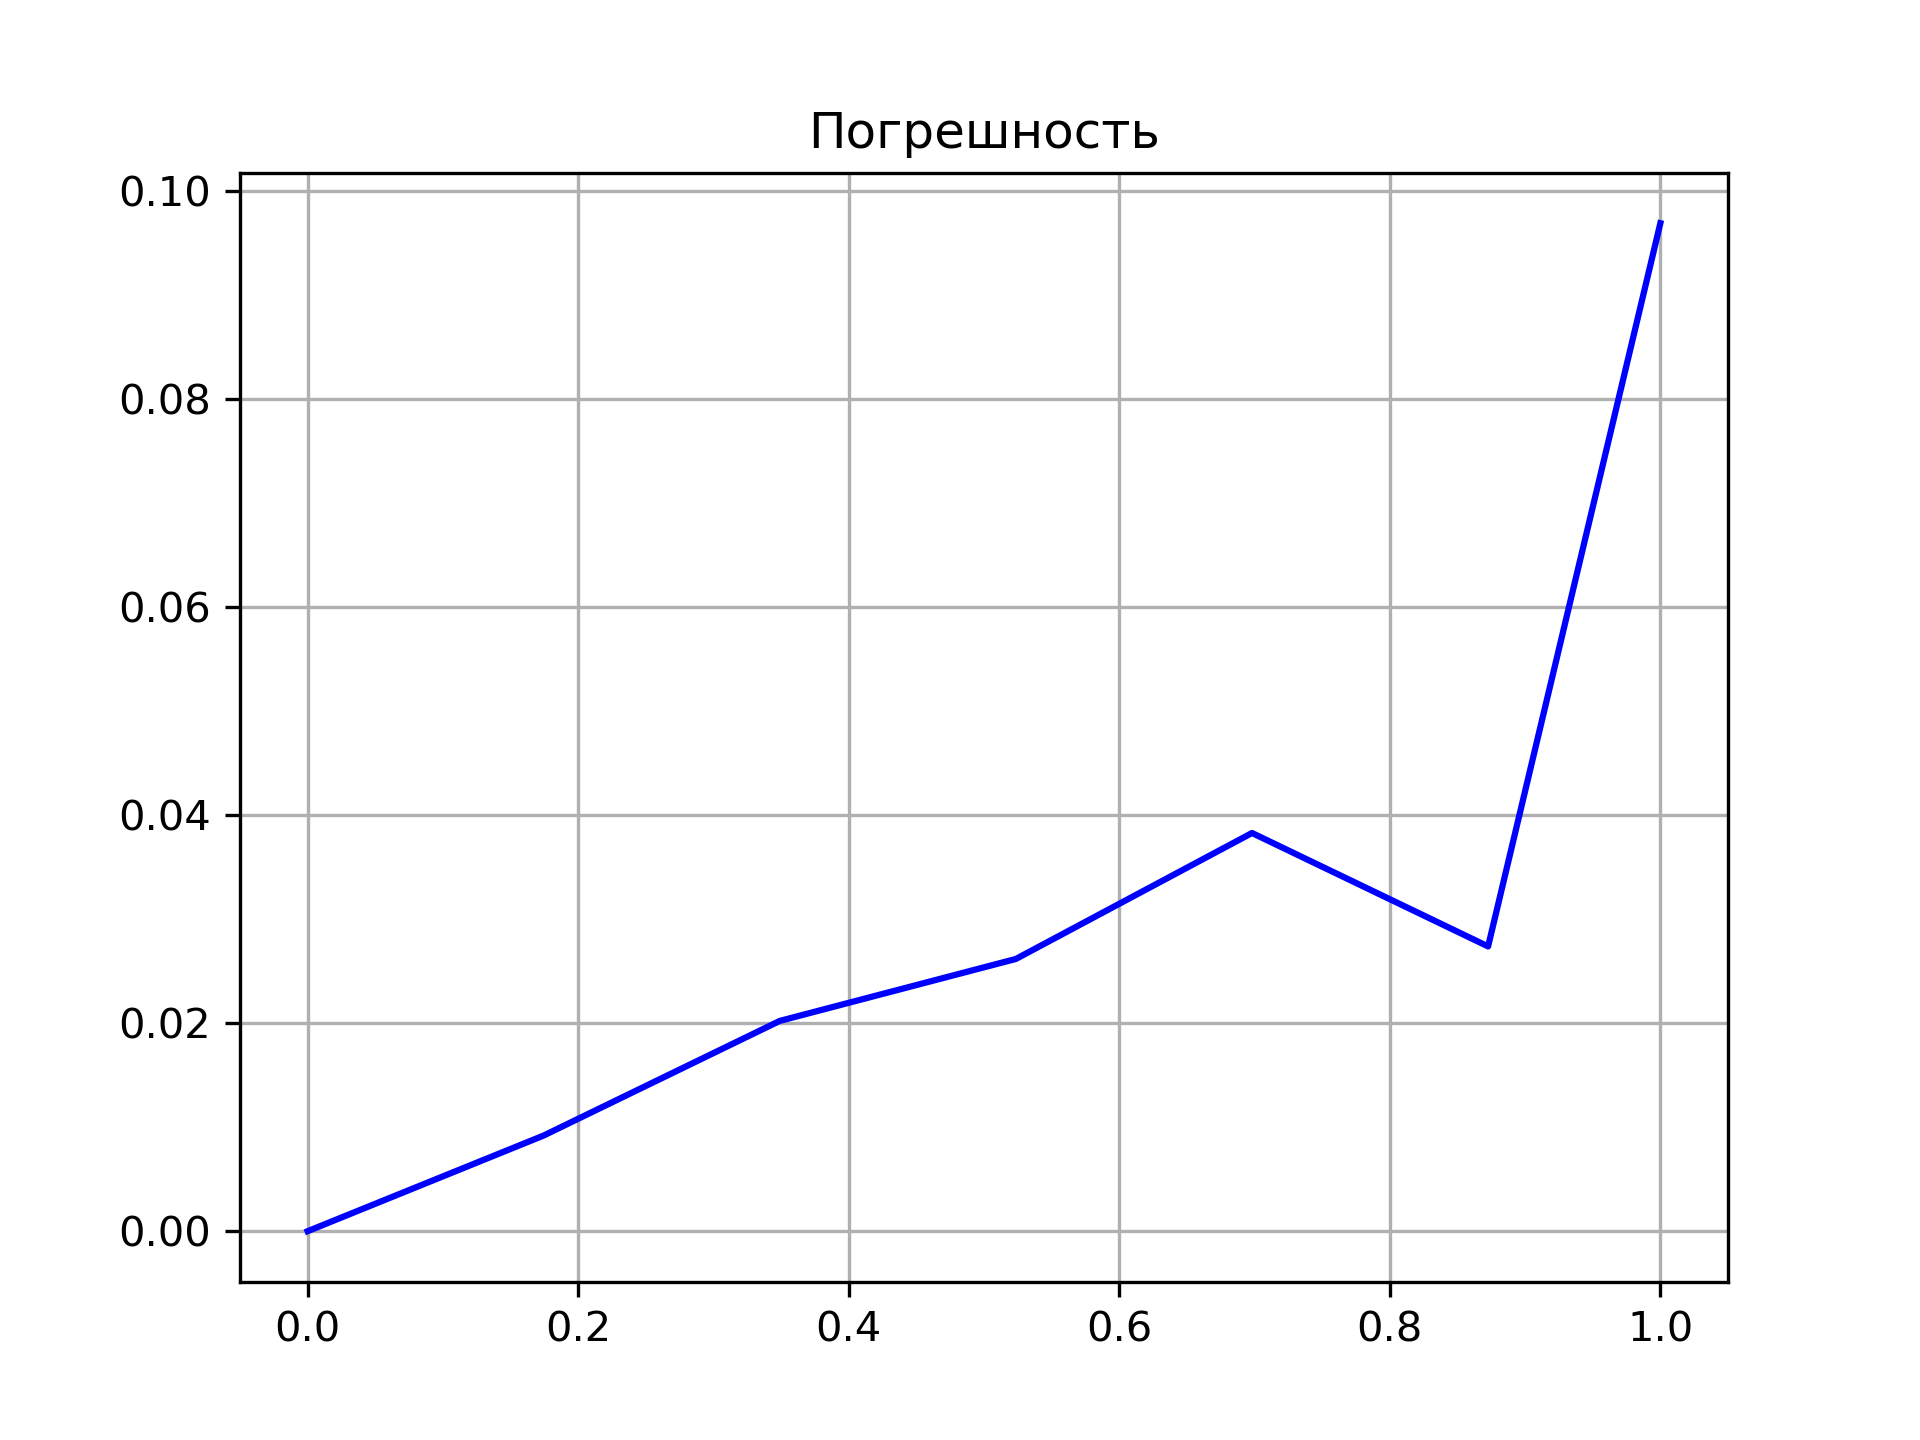
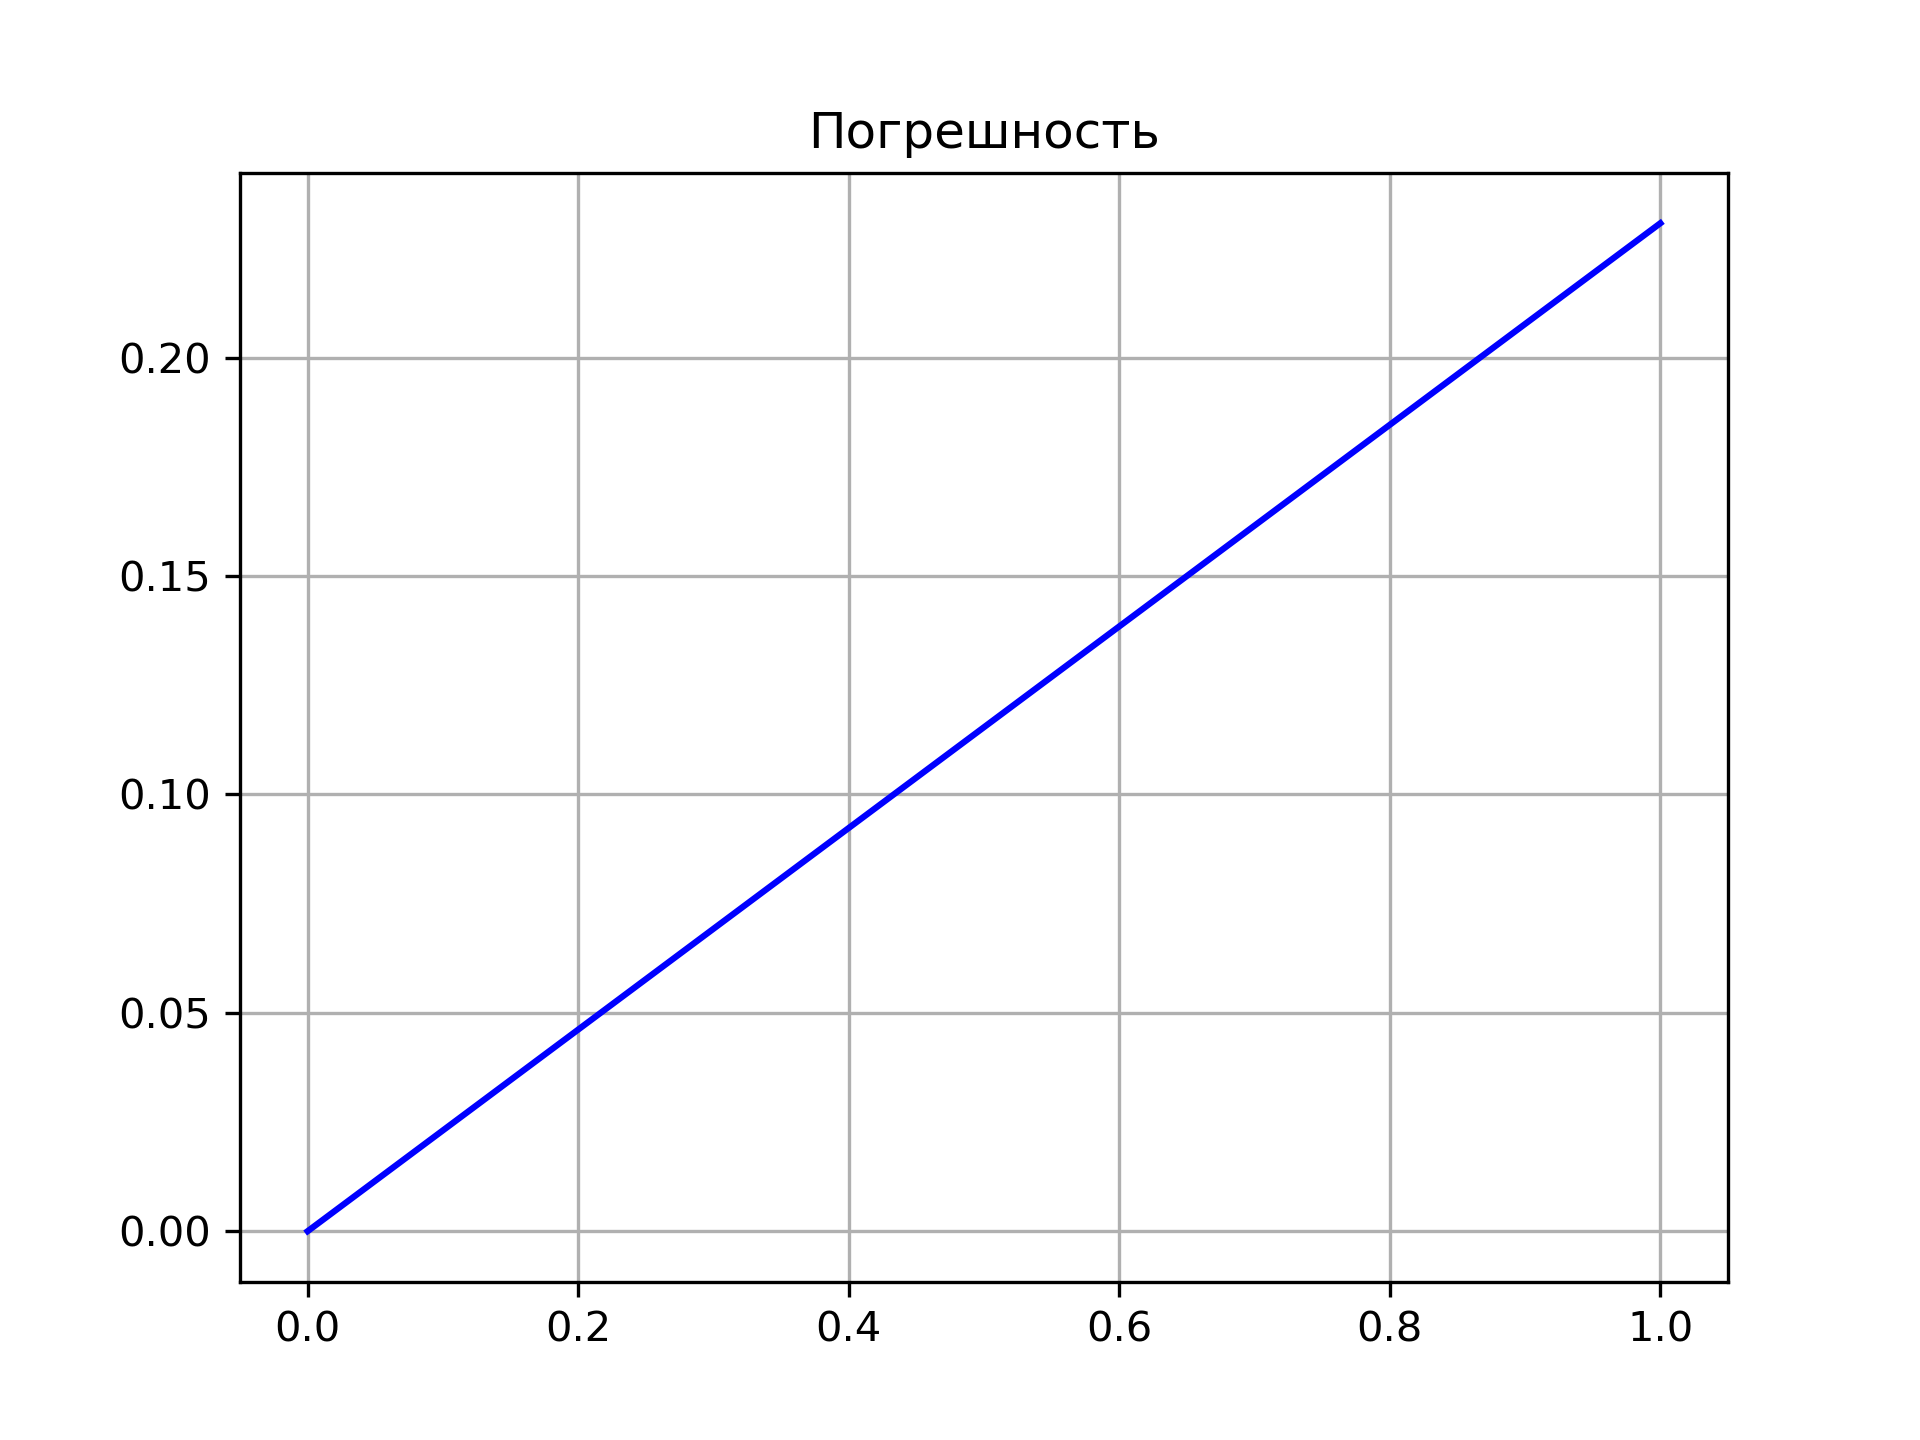
Изменение высчитывания шага по времени

diff --git a/lab1/laba.py b/lab1/laba.py
@@ -124,18 +124,6 @@ def threepoint_approximation__second_order(u, k, h, t, a, f1, f2, **kwargs):
 #         u[k] = linalg.solve(A, B)
 #     return u
 
-def split(start, end, step):
-    """Разбиение от start до end с шагом step. Значение end попадает в конец результирующего numpy array"""
-
-    spliting = []
-    i = start
-    while i < end:
-        spliting.append(i)
-        i = round(i + step, 10)
-    spliting.append(end)
-
-    return array(spliting)
-
 def get_error(split_x, split_t, u, N, last_layer, U):
     error = zeros((last_layer))
     for k, t in enumerate(split_t):
@@ -162,8 +150,9 @@ def solve(method, approximation, num_split, t_end, sigma, a):
 
     split_x = linspace(x0, xN, num_split)
     h = round(split_x[1] - split_x[0], 10)
-    t = round(h * sigma / a, 10)
-    split_t = split(t_start, t_end, t)
+    num_split = int(t_end / (h**2 * sigma / a)) + 1
+    split_t = linspace(t_start, t_end, num_split)
+    t = split_t[1] - split_t[0]
 
     N = len(split_x)
     last_layer = len(split_t)
